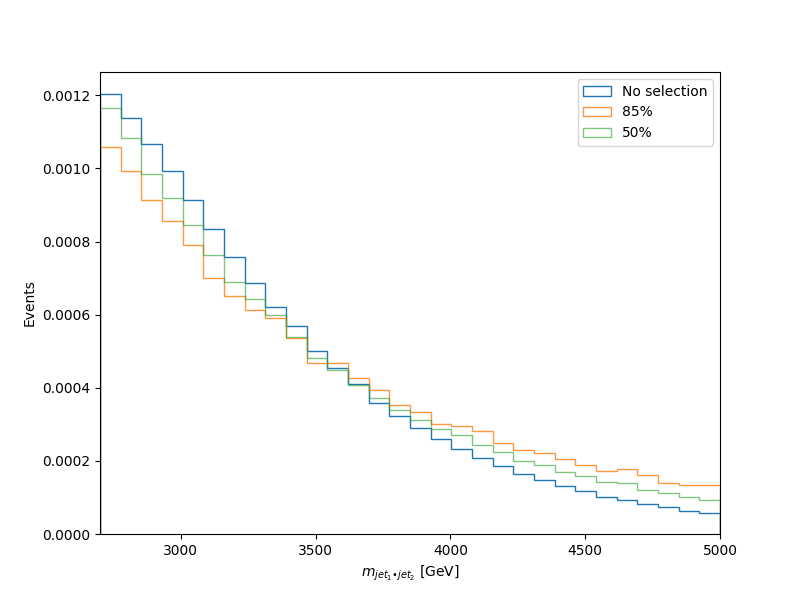
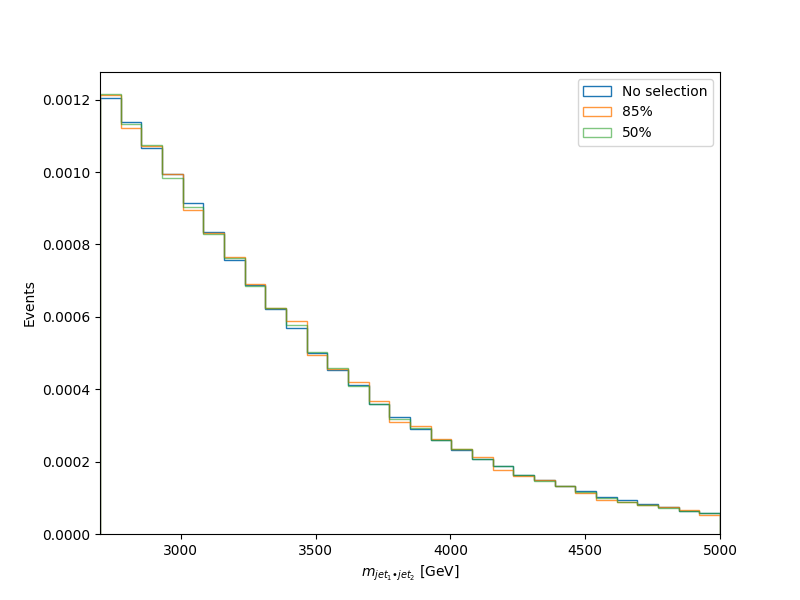
Testing with standard scaling and 84, 14 layer dimensions

diff --git a/test.py b/test.py
@@ -77,9 +77,9 @@ if scale == "minmax":
 elif scale == "standard":
     scaler = StandardScaler()
 
-sample_bkg = bkg[selection] #.sample(frac=1)
-sample_sig1 = sig1[selection] #.sample(frac=1)
-sample_sig2 = sig2[selection] #.sample(frac=1)
+sample_bkg = bkg[selection].sample(frac=1)
+sample_sig1 = sig1[selection].sample(frac=1)
+sample_sig2 = sig2[selection].sample(frac=1)
 
 # Concatenate all datasets for the current column to find the global min and max
 all_data = pd.concat([sample_bkg, sample_sig1, sample_sig2])
